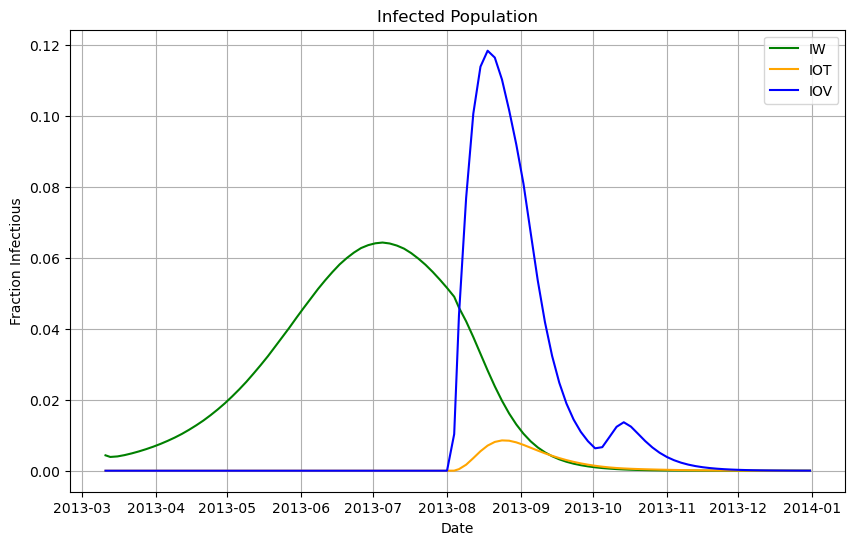
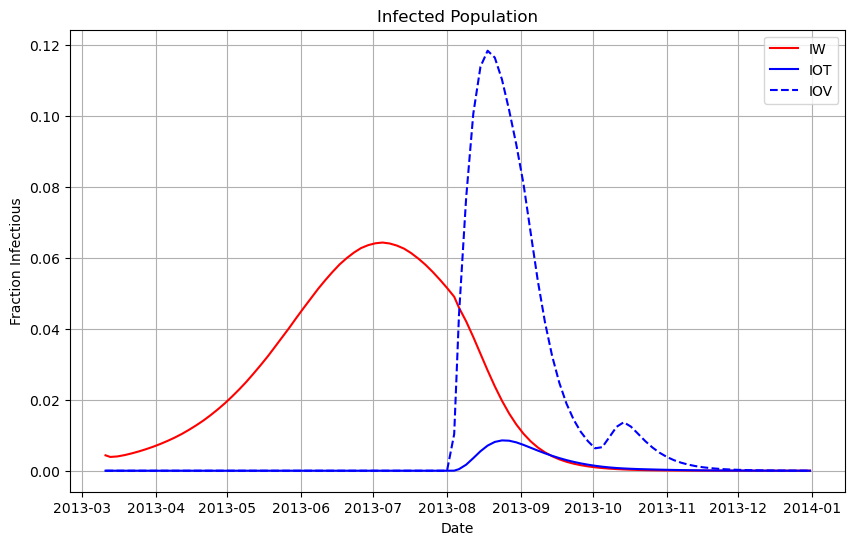
added legend and changed infection graph to match paper

diff --git a/model_sim.py b/model_sim.py
@@ -182,9 +182,9 @@ plt.close()
 
 # Plot IW, IOT, and IOV
 plt.figure(figsize=(10, 6))
-plt.plot(date_range, IW_values, color='green', label='IW')
-plt.plot(date_range, IOT_values, color='orange', label='IOT')
-plt.plot(date_range, IOV_values, color='blue', label='IOV')
+plt.plot(date_range, IW_values, color='red', label='IW')
+plt.plot(date_range, IOT_values, color='blue', label='IOT')
+plt.plot(date_range, IOV_values, linestyle='dashed', color='blue', label='IOV')
 plt.xlabel('Date')
 plt.ylabel('Fraction Infectious')
 plt.title('Infected Population')
@@ -239,12 +239,13 @@ plt.close()
 
 # Plot y_w_model
 plt.figure(figsize=(10, 6))
-plt.plot(date_range, y_w_model, color='blue')
-plt.scatter(WPV1_dates, y_w_data, color='red', marker='o')  # Scatter plot of parsed data
+plt.plot(date_range, y_w_model, color='blue', label='Model')
+plt.scatter(WPV1_dates, y_w_data, color='red', marker='o', label='Data')  # Scatter plot of parsed data
 
 plt.xlabel('Date')
 plt.ylabel('PCR Cycle Threshold')
 plt.title('WPV1 PCR Cycle Threshold vs Date')
+plt.legend()
 plt.grid(True)
 plt.gca().invert_yaxis()  # Invert the y-axis
 plt.ylim(60, 20)  # Set y-axis limits from 20 to 60
@@ -259,12 +260,13 @@ plt.close()
 
 # Plot y_o_model
 plt.figure(figsize=(10, 6))
-plt.plot(date_range, y_o_model, color='blue')
-plt.scatter(OPV1_dates, y_o_data, color='red', marker='o')  # Scatter plot of parsed data
+plt.plot(date_range, y_o_model, color='blue', label='Model')
+plt.scatter(OPV1_dates, y_o_data, color='red', marker='o', label='Data')  # Scatter plot of parsed data
 
 plt.xlabel('Date')
 plt.ylabel('PCR Cycle Threshold')
 plt.title('OPV1 PCR Cycle Threshold vs Date')
+plt.legend()
 plt.grid(True)
 plt.gca().invert_yaxis()  # Invert the y-axis
 plt.ylim(60, 20)  # Set y-axis limits from 20 to 60
